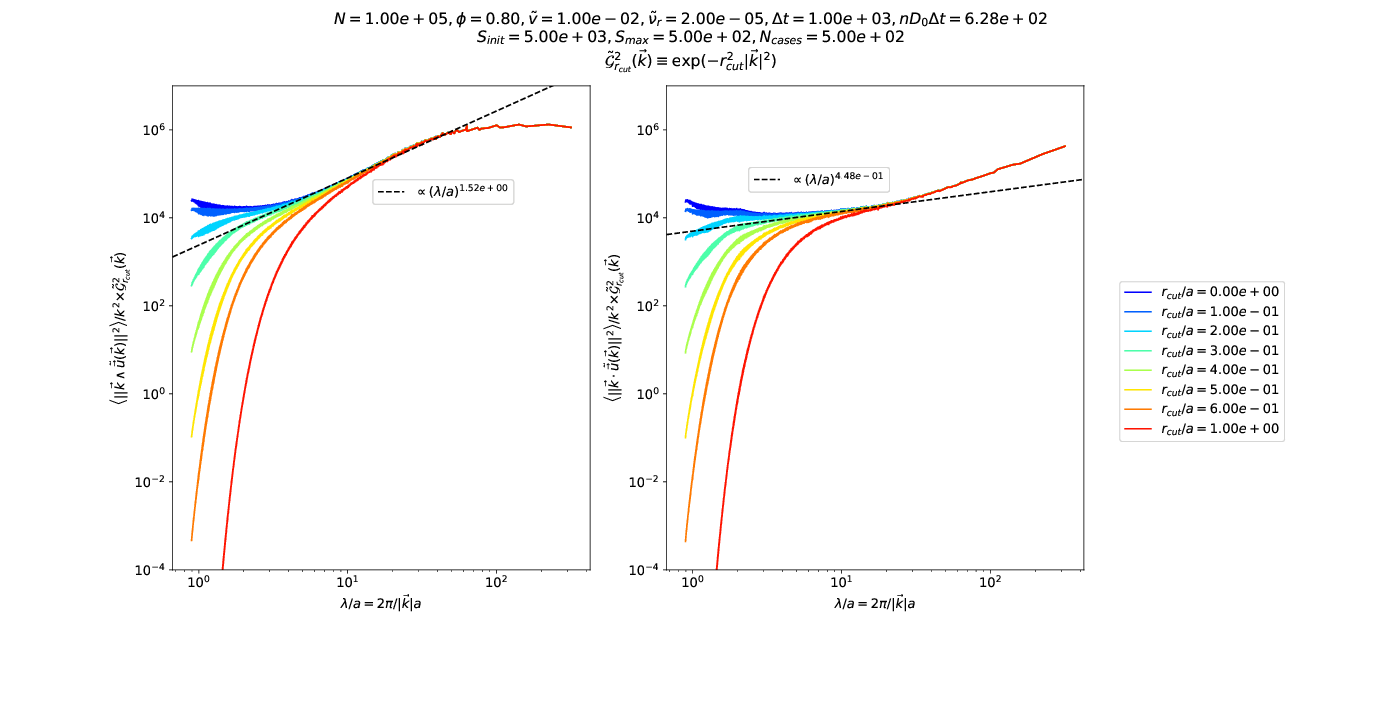
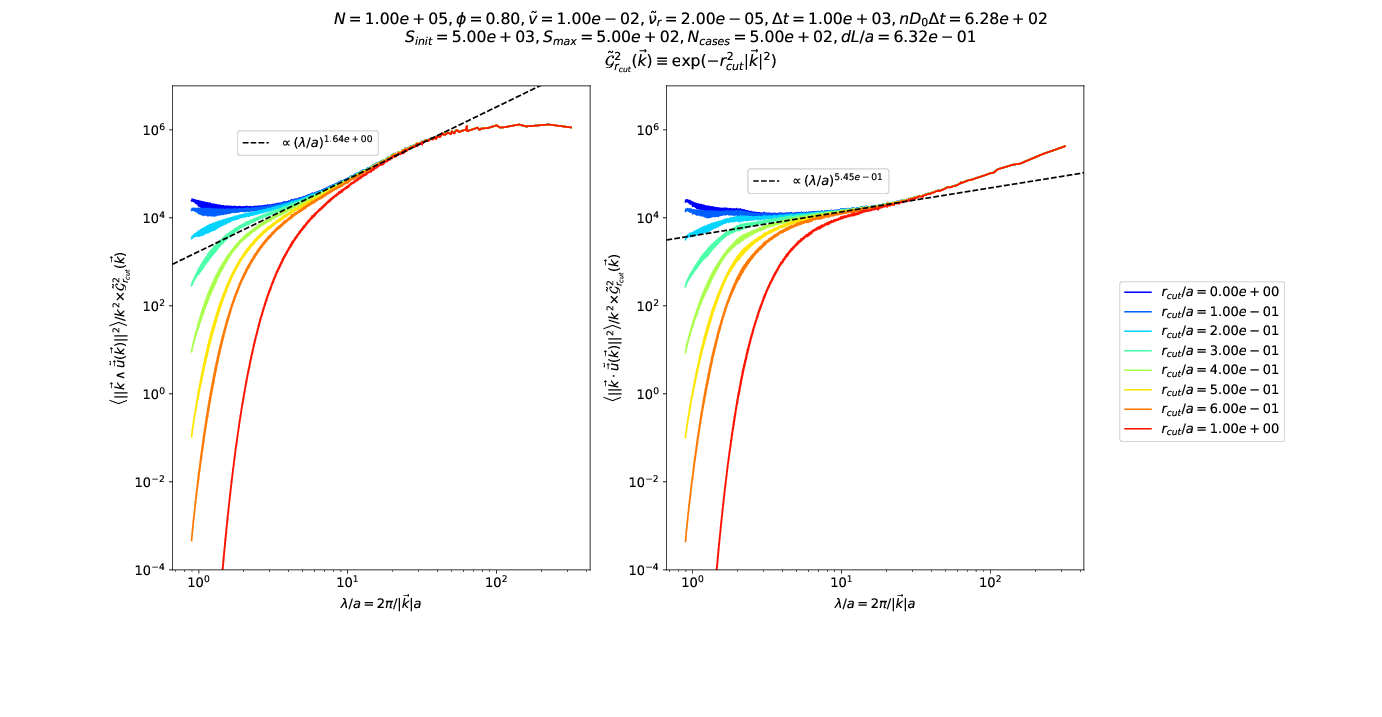
display dL

diff --git a/miscellaneous/smooth_cmsd/smooth_cmsd.py b/miscellaneous/smooth_cmsd/smooth_cmsd.py
@@ -105,7 +105,8 @@ if __name__ == '__main__':
 		% (dt*parameters['period_dump']*parameters['time_step'],
 		nD0*dt*parameters['period_dump']*parameters['time_step'])
 		+ '\n' +  r'$S_{init}=%.2e$' % init_frame
-		+ r'$, S_{max}=%.2e, N_{cases}=%.2e$' % (int_max, Ncases)
+		+ r'$, S_{max}=%.2e, N_{cases}=%.2e, dL/a=%.2e$'
+        % (int_max, Ncases, np.sqrt(parameters['N'])/Ncases)
         + '\n' + r'$\tilde{\mathcal{G}}^2_{r_{cut}}(\vec{k}) \equiv$'
 		+ r'$\exp(-r_{cut}^2 |\vec{k}|^2)$')
     fig.subplots_adjust(wspace=0.25)
